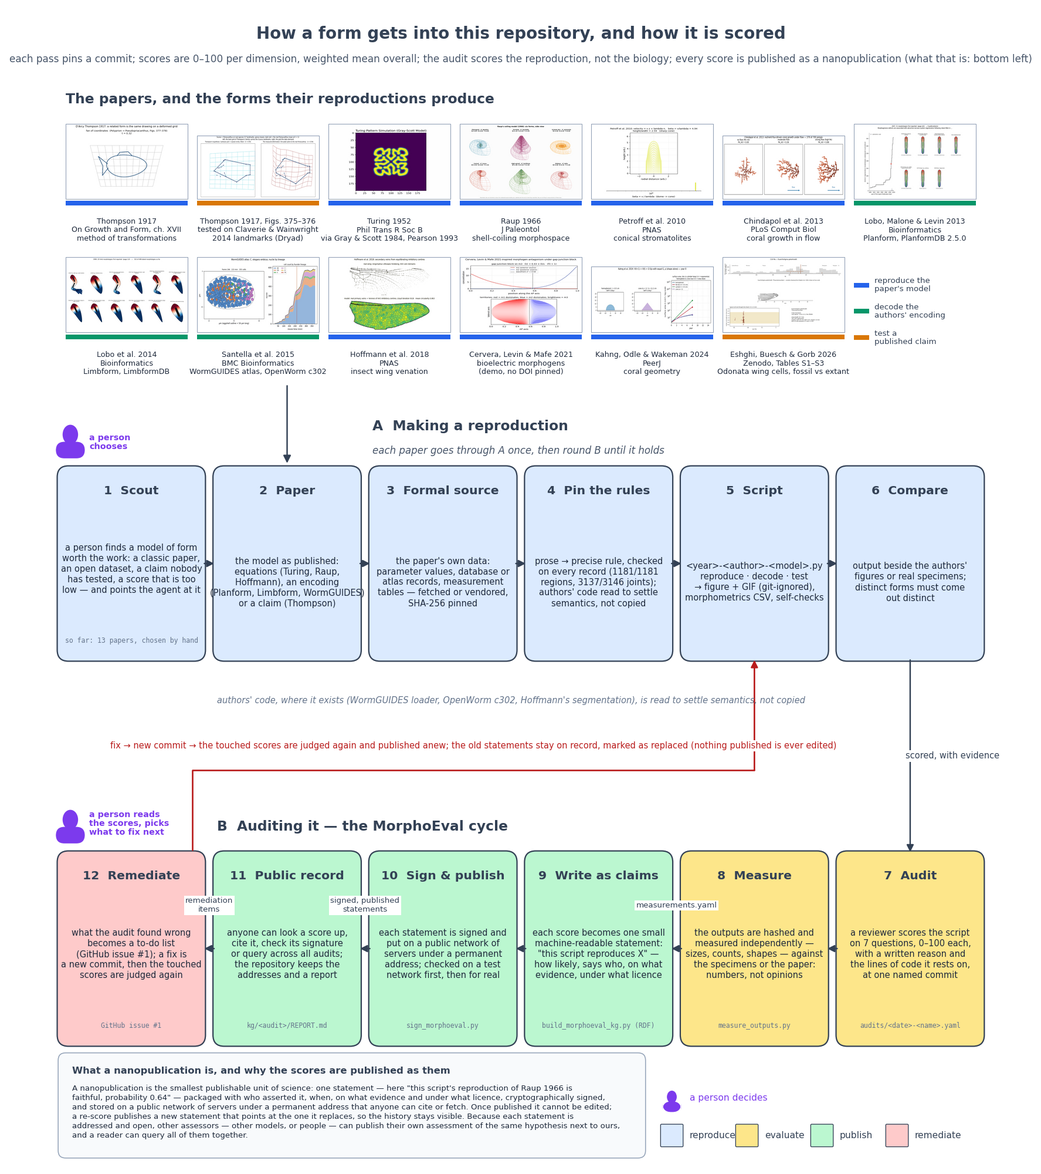
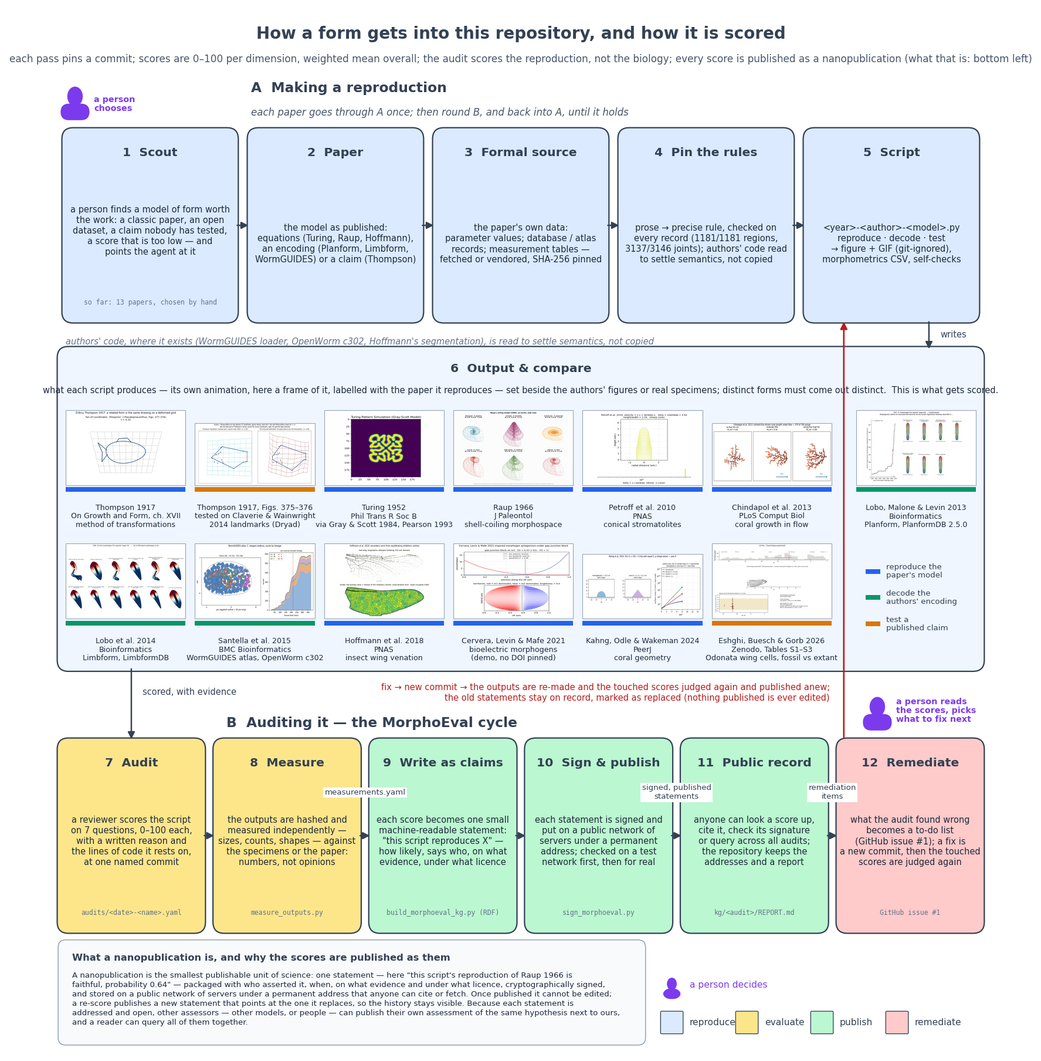
Pipeline diagram: the animations are the scripts' output, so they sit inside the loop
The thumbnail strip was headed 'The papers' above tier A, but the images
are what the scripts produce.  It is now box 6, 'Output & compare',
between the tiers: Script writes into it, Audit scores it, and the fix
loop from Remediate runs straight back up through a gap between two
columns of outputs into Script.  Tier A ends at Script; tier B runs left
to right under the band.  Mermaid twin, README prose, report alt-text and
docs/media/README updated.

diff --git a/morphoeval/report/draw_pipeline.py b/morphoeval/report/draw_pipeline.py
@@ -4,11 +4,13 @@
     python3 morphoeval/report/draw_pipeline.py            # -> docs/media/morphoeval_pipeline.png
     python3 morphoeval/report/draw_pipeline.py --out /tmp/p.png --svg
 
-Two tiers.  The upper tier is the reproduction itself: paper -> the paper's formal source -> the rules
-pinned down (inferred from prose, verified on every record, disambiguated with the authors' code where
-it exists) -> the script -> comparison with the authors' figures or specimens.  The lower tier is the
-MorphoEval cycle: audit -> measure -> build graph -> sign & publish -> knowledge graph -> remediate,
-whose fixes feed back into the script.  The same diagram is kept as Mermaid in morphoeval/README.md;
+Two tiers with the outputs between them.  Tier A is the reproduction: a person scouts -> paper -> the
+paper's formal source -> the rules pinned down (inferred from prose, verified on every record,
+disambiguated with the authors' code where it exists) -> the script.  Box 6, spanning the width, is
+what the scripts produce: a frame of each reproduction's own animation, labelled with its paper -
+the thing that is compared and scored.  Tier B is the MorphoEval cycle: audit -> measure -> write as
+claims -> sign & publish -> public record -> remediate, and the fix loop runs straight back up from
+Remediate, between two columns of outputs, into Script.  The same diagram is kept as Mermaid in morphoeval/README.md;
 this one is for the PDF report and anything that cannot render Mermaid.  No external drawing library.
 """
 from __future__ import annotations
@@ -24,23 +26,22 @@ from matplotlib.patches import FancyArrowPatch, FancyBboxPatch
 ROOT = Path(__file__).resolve().parents[2]
 
 BUILD = "#dbeafe"; EVAL = "#fde68a"; PUB = "#bbf7d0"; LOOP = "#fecaca"; EDGE = "#334155"; RED = "#b91c1c"; HUMAN = "#7c3aed"
-# (x, y, w, h, colour, title, body) on a 100 x 100 canvas
-YA, YB, H = 54, 13, 20
-W, XS = 15.0, [1.0, 17.6, 34.2, 50.8, 67.4, 84.0]           # six boxes per tier; tier A left -> right, tier B right -> left
-XA, XB = XS, XS[::-1]
+# (x, y, w, h, colour, title, body) on a 100 x 100 canvas.  Top to bottom: tier A (five boxes, left -> right),
+# the outputs band (box 6), tier B (six boxes, left -> right), the note.
+YA, YB, H = 78, 13, 20
+WA, XA = 18.0, [1.5, 21.25, 41.0, 60.75, 80.5]
+W, XB = 15.0, [1.0, 17.6, 34.2, 50.8, 67.4, 84.0]
 BOXES = {
-    "scout":   (XA[0], YA, W, H, BUILD, "1  Scout",
-                "a person finds a model of form\nworth the work: a classic paper,\nan open dataset, a claim nobody\nhas tested, a score that is too\nlow — and points the agent at it"),
-    "paper":   (XA[1], YA, W, H, BUILD, "2  Paper",
-                "the model as published:\nequations (Turing, Raup,\nHoffmann), an encoding\n(Planform, Limbform, WormGUIDES)\nor a claim (Thompson)"),
-    "source":  (XA[2], YA, W, H, BUILD, "3  Formal source",
-                "the paper's own data:\nparameter values, database or\natlas records, measurement\ntables — fetched or vendored,\nSHA-256 pinned"),
-    "rules":   (XA[3], YA, W, H, BUILD, "4  Pin the rules",
-                "prose → precise rule, checked\non every record (1181/1181\nregions, 3137/3146 joints);\nauthors' code read to settle\nsemantics, not copied"),
-    "script":  (XA[4], YA, W, H, BUILD, "5  Script",
+    "scout":   (XA[0], YA, WA, H, BUILD, "1  Scout",
+                "a person finds a model of form worth\nthe work: a classic paper, an open\ndataset, a claim nobody has tested,\na score that is too low — and\npoints the agent at it"),
+    "paper":   (XA[1], YA, WA, H, BUILD, "2  Paper",
+                "the model as published:\nequations (Turing, Raup, Hoffmann),\nan encoding (Planform, Limbform,\nWormGUIDES) or a claim (Thompson)"),
+    "source":  (XA[2], YA, WA, H, BUILD, "3  Formal source",
+                "the paper's own data:\nparameter values; database / atlas\nrecords; measurement tables —\nfetched or vendored, SHA-256 pinned"),
+    "rules":   (XA[3], YA, WA, H, BUILD, "4  Pin the rules",
+                "prose → precise rule, checked on\nevery record (1181/1181 regions,\n3137/3146 joints); authors' code read\nto settle semantics, not copied"),
+    "script":  (XA[4], YA, WA, H, BUILD, "5  Script",
                 "<year>-<author>-<model>.py\nreproduce · decode · test\n→ figure + GIF (git-ignored),\nmorphometrics CSV, self-checks"),
-    "compare": (XA[5], YA, W, H, BUILD, "6  Compare",
-                "output beside the authors'\nfigures or real specimens;\ndistinct forms must come\nout distinct"),
     "audit":   (XB[0], YB, W, H, EVAL,  "7  Audit",
                 "a reviewer scores the script\non 7 questions, 0–100 each,\nwith a written reason and\nthe lines of code it rests on,\nat one named commit"),
     "measure": (XB[1], YB, W, H, EVAL,  "8  Measure",
@@ -81,8 +82,8 @@ PAPERS = [  # (gif, caption lines, kind)
     ("odonata_wing_cells_deep_time.gif",  "Eshghi, Buesch & Gorb 2026\nZenodo, Tables S1–S3\nOdonata wing cells, fossil vs extant", "test"),
 ]
 KIND_COL = {"reproduce": "#2563eb", "decode": "#059669", "test": "#d97706"}
-YS = 83                                                      # bottom of the thumbnail strip
-FIG_W, FIG_H, YLIM = 13.0, 12.3, 123.0
+YS = 40.5                                                    # bottom of the outputs band (box 6)
+FIG_W, FIG_H, YLIM = 13.0, 11.1, 111.0
 
 
 THUMBS = []                                                  # (gif name, data-coordinate extent) filled by strip()
@@ -99,12 +100,19 @@ def gif_frame(name: str, frac: float = 0.55):
 
 
 def strip(ax):
-    """Two rows of thumbnails (7 + 6): each paper with a frame of its reproduction's animation."""
-    cols, gap = 7, 1.0; tw = (97.0 - (cols - 1) * gap) / cols; row_h = 14.2
-    ax.text(1.5, YS + 2 * row_h + 2.0, "The papers, and the forms their reproductions produce", fontsize=10.5, fontweight="bold", color=EDGE, va="center")
+    """Box 6: the outputs.  Two rows of thumbnails (7 + 6), each a frame of a script's own animation, labelled
+    with the paper it comes from.  Framed like a tier-A box because it is one: the thing Compare and Audit look at."""
+    cols, gap, wide = 7, 1.0, 2.6; tw = (97.0 - (cols - 2) * gap - wide) / cols; row_h = 14.2   # the last gap is wider: the fix loop runs through it
+    top = YS + 2 * row_h + 5.8
+    col_x = [1.5 + c * (tw + gap) + (wide - gap if c == cols - 1 else 0) for c in range(cols)]
+    ax.add_patch(FancyBboxPatch((1.0, YS + 0.4), 98.0, top - YS - 0.4, boxstyle="round,pad=0.4,rounding_size=1.2", fc="#eff6ff", ec=EDGE, lw=1.0, zorder=1))
+    ax.text(50, top - 2.0, "6  Output & compare", ha="center", va="center", fontsize=9.2, fontweight="bold", color=EDGE)
+    ax.text(50, top - 4.3, "what each script produces — its own animation, here a frame of it, labelled with the paper it reproduces — "
+            "set beside the authors' figures or real specimens; distinct forms must come out distinct.  This is what gets scored.",
+            ha="center", va="center", fontsize=6.6, color="#1e293b")
     for i, (gif, cap, kind) in enumerate(PAPERS):
         r, c = divmod(i, cols)
-        x = 1.5 + c * (tw + gap); y = YS + (1 - r) * row_h
+        x = col_x[c]; y = YS + (1 - r) * row_h
         img = gif_frame(gif)
         th = tw * (img.height / img.width) * (FIG_W / 100.0) / (FIG_H / YLIM)
         th = min(th, row_h - 6.2)
@@ -112,12 +120,13 @@ def strip(ax):
         THUMBS.append((gif, (x, x + tw, y + 5.6, y + 5.6 + th)))
         ax.add_patch(FancyBboxPatch((x, y + 5.6), tw, th, boxstyle="square,pad=0", fc="none", ec="#94a3b8", lw=0.5, zorder=4))
         ax.add_patch(FancyBboxPatch((x, y + 4.9), tw, 0.5, boxstyle="square,pad=0", fc=KIND_COL[kind], ec="none", zorder=3))
-        ax.text(x + tw / 2, y + 2.3, cap, ha="center", va="center", fontsize=5.7, color="#1e293b", linespacing=1.15)
-    x = 1.5 + 6 * (tw + gap); y = YS                                  # legend in the free slot of row 2
+        ax.text(x + tw / 2, y + 2.3, cap, ha="center", va="center", fontsize=5.7, color="#1e293b", linespacing=1.15, zorder=3)
+    x = col_x[6]; y = YS                                              # legend in the free slot of row 2
     for j, (k, c) in enumerate(KIND_COL.items()):
-        ax.add_patch(FancyBboxPatch((x, y + 10.4 - j * 2.8), 1.6, 0.5, boxstyle="square,pad=0", fc=c, ec="none"))
-        ax.text(x + 2.2, y + 10.65 - j * 2.8, {"reproduce": "reproduce the\npaper's model", "decode": "decode the\nauthors' encoding",
-                                              "test": "test a\npublished claim"}[k], fontsize=6.0, va="center", color=EDGE, linespacing=1.1)
+        ax.add_patch(FancyBboxPatch((x + 1.0, y + 10.4 - j * 2.8), 1.6, 0.5, boxstyle="square,pad=0", fc=c, ec="none", zorder=3))
+        ax.text(x + 3.2, y + 10.65 - j * 2.8, {"reproduce": "reproduce the\npaper's model", "decode": "decode the\nauthors' encoding",
+                                              "test": "test a\npublished claim"}[k], fontsize=6.0, va="center", color=EDGE, linespacing=1.1, zorder=3)
+    return top, col_x[6] - wide / 2                                    # band top; x of the (wide) gap between columns 6 and 7
 
 
 def box(ax, key):
@@ -215,12 +224,13 @@ def main(argv=None):
     fig, ax = plt.subplots(figsize=(FIG_W, FIG_H)); fig.subplots_adjust(0, 0, 1, 1)
     ax.set_xlim(0, 100); ax.set_ylim(0, YLIM); ax.set_aspect("auto"); ax.axis("off")
 
+    # box 6, the outputs, between the tiers
+    band_top, x_gap = strip(ax)
+
     # tier labels
-    strip(ax)
-    ax.add_patch(FancyArrowPatch((XS[1] + W / 2, YS + 0.2), (XS[1] + W / 2, YA + H + 0.4), arrowstyle="-|>", mutation_scale=12, color=EDGE, lw=1.1, zorder=5))
-    ax.text(XS[2], YA + H + 4.6, "A  Making a reproduction", fontsize=10.5, fontweight="bold", color=EDGE, va="center")
-    ax.text(XS[2], YA + H + 2.0, "each paper goes through A once, then round B until it holds", fontsize=7.5, style="italic", color="#475569", va="center")
-    ax.text(XS[1], YB + H + 3.0, "B  Auditing it — the MorphoEval cycle", fontsize=10.5, fontweight="bold", color=EDGE, va="center")
+    ax.text(XA[1], YA + H + 4.6, "A  Making a reproduction", fontsize=10.5, fontweight="bold", color=EDGE, va="center")
+    ax.text(XA[1], YA + H + 2.0, "each paper goes through A once; then round B, and back into A, until it holds", fontsize=7.5, style="italic", color="#475569", va="center")
+    ax.text(XB[1] + 1.0, YB + H + 2.0, "B  Auditing it — the MorphoEval cycle", fontsize=10.5, fontweight="bold", color=EDGE, va="center")
 
     for k in BOXES:
         box(ax, k)
@@ -228,34 +238,37 @@ def main(argv=None):
     x, y, w, h = BOXES["scout"][:4]
     person(ax, x + 1.0, y + h + 1.2, 1.1); ax.text(x + 3.0, y + h + 2.9, HUMANS["scout"], fontsize=6.4, color=HUMAN, va="center", fontweight="bold", linespacing=1.1)
     x, y, w, h = BOXES["remed"][:4]
-    person(ax, x + 1.0, y + h + 1.2, 1.1); ax.text(x + 3.0, y + h + 3.3, HUMANS["remed"], fontsize=6.4, color=HUMAN, va="center", fontweight="bold", linespacing=1.1)
+    person(ax, x + 4.0, y + h + 1.2, 1.1); ax.text(x + 6.0, y + h + 3.3, HUMANS["remed"], fontsize=6.4, color=HUMAN, va="center", fontweight="bold", linespacing=1.1)
 
     # tier A
     arrow(ax, "scout", "r", "paper", "l")
     arrow(ax, "paper", "r", "source", "l")
     arrow(ax, "source", "r", "rules", "l")
     arrow(ax, "rules", "r", "script", "l")
-    arrow(ax, "script", "r", "compare", "l")
-    ax.text(XS[1], YA - 4.6, "authors' code, where it exists (WormGUIDES loader, OpenWorm c302, Hoffmann's segmentation), is read to settle semantics, not copied",
+    ax.text(XA[0], YA - 2.4, "authors' code, where it exists (WormGUIDES loader, OpenWorm c302, Hoffmann's segmentation), is read to settle semantics, not copied",
             ha="left", va="center", fontsize=6.6, color="#64748b", style="italic")
 
-    # A -> B
-    arrow(ax, "compare", "b", "audit", "t", "scored, with evidence", lx=4.5, ly=0.0)
+    # Script -> outputs (down into box 6), outputs -> Audit (down out of box 6)
+    xs = XA[4] + WA / 2 + 4.0
+    ax.add_patch(FancyArrowPatch((xs, YA), (xs, band_top), arrowstyle="-|>", mutation_scale=11, lw=1.1, color=EDGE, shrinkA=2, shrinkB=1))
+    ax.text(xs + 1.2, (YA + band_top) / 2, "writes", fontsize=6.6, color=EDGE, va="center", ha="left")
+    xa = XB[0] + W / 2
+    ax.add_patch(FancyArrowPatch((xa, YS + 0.4), (xa, YB + H), arrowstyle="-|>", mutation_scale=11, lw=1.1, color=EDGE, shrinkA=1, shrinkB=2))
+    ax.text(xa + 1.2, YS - 2.2, "scored, with evidence", fontsize=6.6, color=EDGE, va="center", ha="left")
 
-    # tier B, right -> left
-    arrow(ax, "audit", "l", "measure", "r")
-    arrow(ax, "measure", "l", "build", "r", "measurements.yaml", ly=4.6, fs=6.0)
-    arrow(ax, "build", "l", "publish", "r")
-    arrow(ax, "publish", "l", "graph", "r", "signed, published\nstatements", ly=4.6, fs=6.0)
-    arrow(ax, "graph", "l", "remed", "r", "remediation\nitems", ly=4.6, fs=6.0)
+    # tier B, left -> right
+    arrow(ax, "audit", "r", "measure", "l")
+    arrow(ax, "measure", "r", "build", "l", "measurements.yaml", ly=4.6, fs=6.0)
+    arrow(ax, "build", "r", "publish", "l")
+    arrow(ax, "publish", "r", "graph", "l", "signed, published\nstatements", ly=4.6, fs=6.0)
+    arrow(ax, "graph", "r", "remed", "l", "remediation\nitems", ly=4.6, fs=6.0)
 
-    # the loop back into tier A: up from Remediate, across the gap, up into Script (an elbow, so it crosses no text)
-    x0, y0 = pt("remed", "t"); x0 = BOXES["remed"][0] + W - 1.0; x1, y1 = pt("script", "b"); ym = YB + H + 9
-    ax.plot([x0, x0, x1], [y0 + 0.5, ym, ym], color=RED, lw=1.2, solid_capstyle="round")
-    ax.add_patch(FancyArrowPatch((x1, ym), (x1, y1), arrowstyle="-|>", mutation_scale=11, lw=1.2, color=RED, shrinkA=0, shrinkB=2))
-    ax.text((x0 + x1) / 2, ym + 2.6, "fix → new commit → the touched scores are judged again and published anew; the old statements stay on record, "
-            "marked as replaced (nothing published is ever edited)",
-            ha="center", va="center", fontsize=6.6, color=RED, bbox=dict(fc="white", ec="none", pad=1.0))
+    # the loop: straight up from Remediate, between two columns of outputs, into Script
+    y0 = YB + H; y1 = YA
+    ax.add_patch(FancyArrowPatch((x_gap, y0 + 0.5), (x_gap, y1), arrowstyle="-|>", mutation_scale=11, lw=1.2, color=RED, shrinkA=0, shrinkB=2, zorder=5))
+    ax.text(x_gap - 1.5, YS - 2.3, "fix → new commit → the outputs are re-made and the touched scores judged again and published anew;\n"
+            "the old statements stay on record, marked as replaced (nothing published is ever edited)",
+            ha="right", va="center", fontsize=6.6, color=RED, linespacing=1.25)
     note(ax)
 
     ax.text(50, YLIM - 2.6, "How a form gets into this repository, and how it is scored", ha="center", va="center", fontsize=12.5, fontweight="bold", color=EDGE)

diff --git a/morphoeval/README.md b/morphoeval/README.md
@@ -43,15 +43,16 @@ scripts that were not inspected are listed `unevaluated` with no scores.
 ## The cycle
 
 Tier A is how a form gets into the repository: it starts with a person scouting — choosing a
-paper, dataset or claim worth the work and pointing the agent at it — and then one of three kinds of script
+paper, dataset or claim worth the work and pointing the agent at it — and ends in one of three kinds of script
 (reproduce the paper's model from its equations, decode the authors' formal encoding into form, or test a
-published claim against measurements); tier B is how it is scored, and a person reads the scores and
-decides what to fix or where to go next (👤 marks the two places people decide). Each pass pins a commit; scores are 0–100 per dimension with a weighted mean overall; published
+published claim against measurements). Between the tiers sits what the scripts produce — box 6, the
+thirteen animations, each labelled with its paper — which is what tier B scores; a person reads the scores
+and decides what to fix or where to go next, and the fix runs back through box 6 into the script (👤 marks
+the two places people decide). Each pass pins a commit; scores are 0–100 per dimension with a weighted mean overall; published
 nanopubs are immutable and re-scores supersede them. The same figure as an image (for the PDF report
 and anything that cannot render Mermaid) is `docs/media/morphoeval_pipeline.png`, drawn by
-`morphoeval/report/draw_pipeline.py`; it also heads the two tiers with the thirteen source
-papers (author, year, venue, data source), each illustrated from its reproduction's animation in
-`docs/media/`. `draw_pipeline.py --gif` writes `morphoeval_pipeline.gif`, the same figure with
+`morphoeval/report/draw_pipeline.py`; in it box 6 is the thirteen reproductions' own animations in
+`docs/media/`, each labelled with its paper (author, year, venue, data source). `draw_pipeline.py --gif` writes `morphoeval_pipeline.gif`, the same figure with
 the thumbnails playing (used at the top of the root README); the PDF report uses the still.
 
 ```mermaid
@@ -68,9 +69,11 @@ flowchart TB
         S["3 Formal source<br/>the paper's own data: parameters,<br/>database/atlas records, tables<br/>(SHA-256 pinned)"]:::build
         R["4 Pin the rules<br/>prose → precise rule, checked on<br/>every record; authors' code read<br/>for semantics, not copied"]:::build
         X["5 Script<br/>&lt;year&gt;-&lt;author&gt;-&lt;model&gt;.py<br/>→ figure + GIF, morphometrics,<br/>self-checks"]:::build
-        C["6 Compare<br/>output beside the authors' figures<br/>or real specimens"]:::build
-        SC --> P --> S --> R --> X --> C
+        SC --> P --> S --> R --> X
     end
+
+    O["6 Output &amp; compare<br/>what each script produces — its own figure and animation<br/>(the thirteen in docs/media/) — set beside the authors' figures<br/>or real specimens; distinct forms must come out distinct.<br/>This is what gets scored."]:::build
+    X -- writes --> O
 
     subgraph B["B &nbsp;Auditing it — the MorphoEval cycle"]
         direction LR
@@ -83,7 +86,7 @@ flowchart TB
         AU --> M --> BG --> PU --> G --> T
     end
 
-    C -- scored, with evidence --> AU
+    O -- scored, with evidence --> AU
     T -- "👤 a person reads the scores and picks what to fix next;<br/>fix → new commit → touched scores judged again and published anew;<br/>the old statements stay on record, marked as replaced (nothing published is edited)" --> X
     G -. other assessors (models, people) may publish their own<br/>assessment of the same hypotheses .-> BG
 ```

diff --git a/README.md b/README.md
@@ -256,7 +256,7 @@ Thompson-focused notes and dataset curation are in:
 
 [`morphoeval/`](./morphoeval/) is a seven-dimension rubric (model fidelity, specimen match, parameter expressivity, morphometric validation, source traceability, code traceability, reproducibility package; weights sum to 100) applied to the scripts above, with every score backed by line-pinned evidence at a recorded commit and by measurements taken on the rendered outputs. Audits are YAML files under `morphoeval/audits/`. Each score is then published as a *nanopublication*: the smallest publishable unit of science — one statement ("this script's reproduction of Raup 1966 is faithful, probability 0.64") packaged with who asserted it, when, on what evidence and under what licence, cryptographically signed, and stored on a public network of servers under a permanent address that anyone can cite, fetch or query. Published statements are never edited; a re-score publishes new ones that point at those they replace, so the history stays visible, and other assessors (other models, or people) can publish their own assessment of the same hypothesis next to ours. In the vocabulary of the network: ProbKnow-conformant nanopubs, one `pk:LLMClaimAssessment` per dimension with `schema:PropertyValue` measurement evidence, re-scores linked by `npx:supersedes`.
 
-How a form gets into the repository and how it is scored. Top: the thirteen source papers, each playing its reproduction's own animation and colour-coded by what the script does with it (reproduce the paper's model from its equations, decode the authors' formal encoding, or test a published claim). Tier A: a person scouts — picks a paper, dataset or claim worth the work and points the agent at it — then paper → its formal source → rules pinned and verified on the data → script → comparison with the authors' figures or specimens. Tier B: the audit cycle, from the reviewer's scores to signed public statements and back to the code, where a person reads the scores and decides what to fix next (the purple figures mark where people decide) (the Mermaid source is in [`morphoeval/README.md`](./morphoeval/README.md#the-cycle)):
+How a form gets into the repository and how it is scored. Tier A: a person scouts — picks a paper, dataset or claim worth the work and points the agent at it — then paper → its formal source → rules pinned and verified on the data → script. Box 6, between the tiers, is what the scripts produce: the thirteen reproductions' own animations (playing), each labelled with its paper and colour-coded by what the script does with it (reproduce the paper's model from its equations, decode the authors' formal encoding, or test a published claim), set beside the authors' figures or specimens — this is what gets scored. Tier B: the audit cycle, from the reviewer's scores to signed public statements, to a person who reads them and decides what to fix next; the fix runs back up through the outputs into the script (the purple figures mark where people decide; the Mermaid source is in [`morphoeval/README.md`](./morphoeval/README.md#the-cycle)):
 
 ![How a reproduction is made and how MorphoEval scores it](./docs/media/morphoeval_pipeline.gif)
 

diff --git a/morphoeval/report/report.md b/morphoeval/report/report.md
@@ -96,7 +96,7 @@ purpose, unverified.
 
 # Method
 
-![How a form gets into the repository and how it is scored. Top: the thirteen source papers (author, year, venue, data source), each with a frame of its reproduction's animation, colour-coded by what the script does with the paper (reproduce its model from the equations, decode the authors' formal encoding, or test a published claim). Tier A, making a reproduction: a person scouts, choosing a paper, dataset or claim worth the work and pointing the agent at it; the model as published (equations, an encoding, or a claim); the paper's own formal source (parameter values, database or atlas records, measurement tables), fetched or vendored with a pinned hash; the rules pinned down — inferred from prose, verified on every record, with the authors' code read to settle semantics where it exists; the script, which reproduces, decodes or tests; and the comparison with the authors' figures or specimens. Tier B, the MorphoEval cycle: audit with line-pinned evidence at a commit, measurement of the rendered outputs, graph built against the ProbKnow templates, signing and publication through the test registry to production, the public record, and remediation, where a person reads the scores and picks what to fix; the fix produces a new commit and a re-audit of the touched dimensions that supersedes the earlier nanopublications. Purple figures mark the two places people decide.](pipeline.png){height=70%}
+![How a form gets into the repository and how it is scored. Tier A, making a reproduction: a person scouts, choosing a paper, dataset or claim worth the work and pointing the agent at it; the model as published (equations, an encoding, or a claim); the paper's own formal source (parameter values, database or atlas records, measurement tables), fetched or vendored with a pinned hash; the rules pinned down — inferred from prose, verified on every record, with the authors' code read to settle semantics where it exists; and the script, which reproduces, decodes or tests. Box 6, between the tiers: what the scripts produce — a frame of each of the thirteen reproductions' own animations, labelled with its paper (author, year, venue, data source) and colour-coded by what the script does with the paper — set beside the authors' figures or specimens; this is what gets scored. Tier B, the MorphoEval cycle: audit with line-pinned evidence at a commit, measurement of the rendered outputs, each score written as a machine-readable claim, signing and publication through the test registry to production, the public record, and remediation, where a person reads the scores and picks what to fix; the fix runs back up through the outputs into the script, producing a new commit and a re-audit of the touched dimensions that supersedes the earlier nanopublications. Purple figures mark the two places people decide.](pipeline.png){height=70%}
 
 ## Audits
 

diff --git a/docs/media/README.md b/docs/media/README.md
@@ -26,7 +26,7 @@ Downsizing: frames sampled evenly, resized with Lanczos, quantised with median
 cut and Floyd–Steinberg dithering, frame duration scaled to keep the original
 running time (Pillow 12.0.0). Total ≈ 15 MB.
 
-`morphoeval_pipeline.png` and `morphoeval_pipeline.gif` are not script outputs but documentation: the source papers (illustrated from the GIFs in this folder; in the GIF version each thumbnail plays its animation once per loop), how a reproduction is made, and the MorphoEval cycle, drawn by `morphoeval/report/draw_pipeline.py --gif` (deterministic; re-run it after editing the stages or regenerating a GIF).
+`morphoeval_pipeline.png` and `morphoeval_pipeline.gif` are not script outputs but documentation: how a reproduction is made, the reproductions' outputs (box 6, illustrated from the GIFs in this folder and labelled with their papers; in the GIF version each thumbnail plays its animation once per loop), and the MorphoEval cycle, drawn by `morphoeval/report/draw_pipeline.py --gif` (deterministic; re-run it after editing the stages or regenerating a GIF).
 
 `thompson_scarus_pomacanthus_outlines.png` is a 1400-px, 256-colour copy of the still figure `thompson/1917-thompson-scarus-pomacanthus.py` writes as `thompson_scarus_pomacanthus_outlines.png` (2026-10-17): the real-outline test on two Wikimedia Commons photographs, whose credits (CC BY 4.0 and CC BY 2.0) are printed in the figure and listed in `datasets/thompson/README.md`.
 
